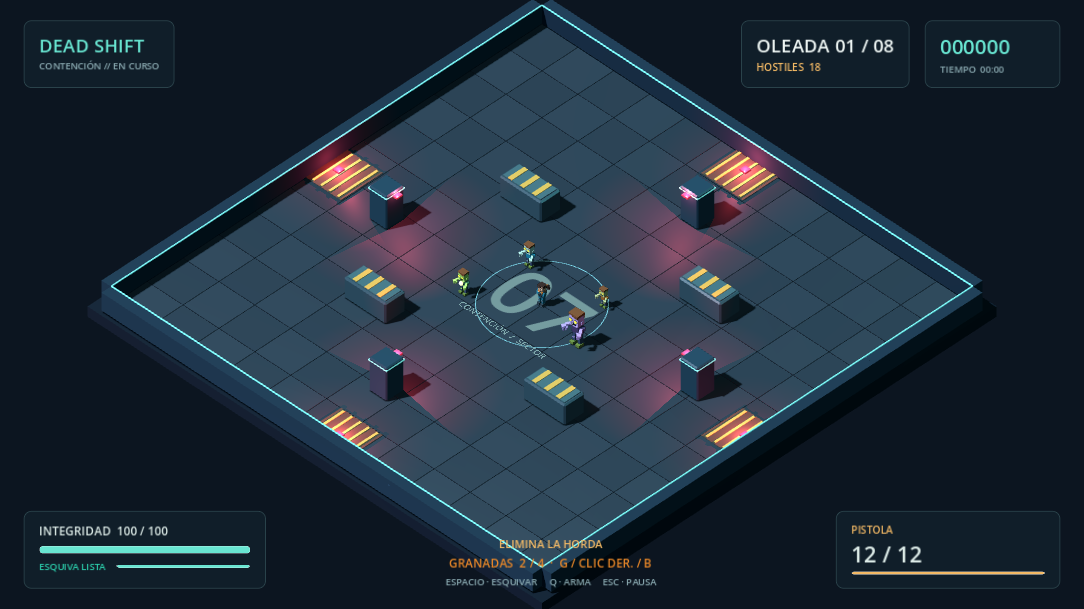
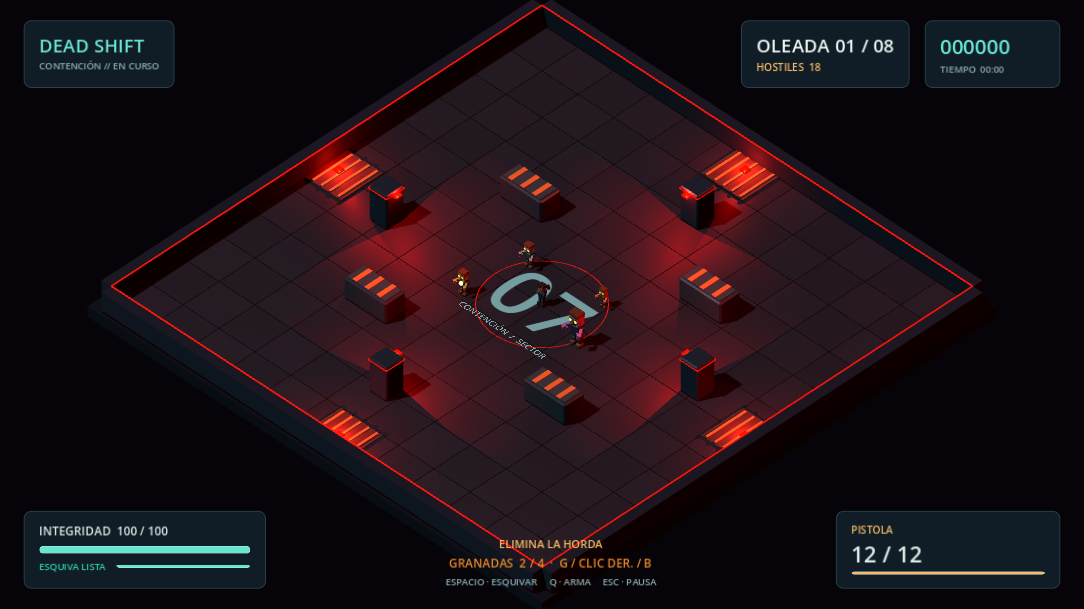
fix: deepen night lighting and make boss emergency red dominant

diff --git a/docs/lighting.md b/docs/lighting.md
@@ -7,7 +7,9 @@ los contornos y se mantiene el renderer Compatibility.
 El botón **LUZ** del menú principal y de pausa alterna entre:
 
 1. **Turno nocturno**: modo inicial, base fría y focos ámbar.
-2. **Emergencia**: focos rojos y base fría más tenue.
+2. **Emergencia**: ambiente oscuro con rojo dominante, focos de mayor alcance
+   y franjas de paredes y pilares rojas. Un relleno neutro tenue mantiene legibles
+   las figuras; no conserva el baño azul del modo normal.
 3. **Contención**: luz fría más clara y acentos verdes.
 
 La selección se guarda junto al sonido y al récord. Cualquier oleada cuyo
